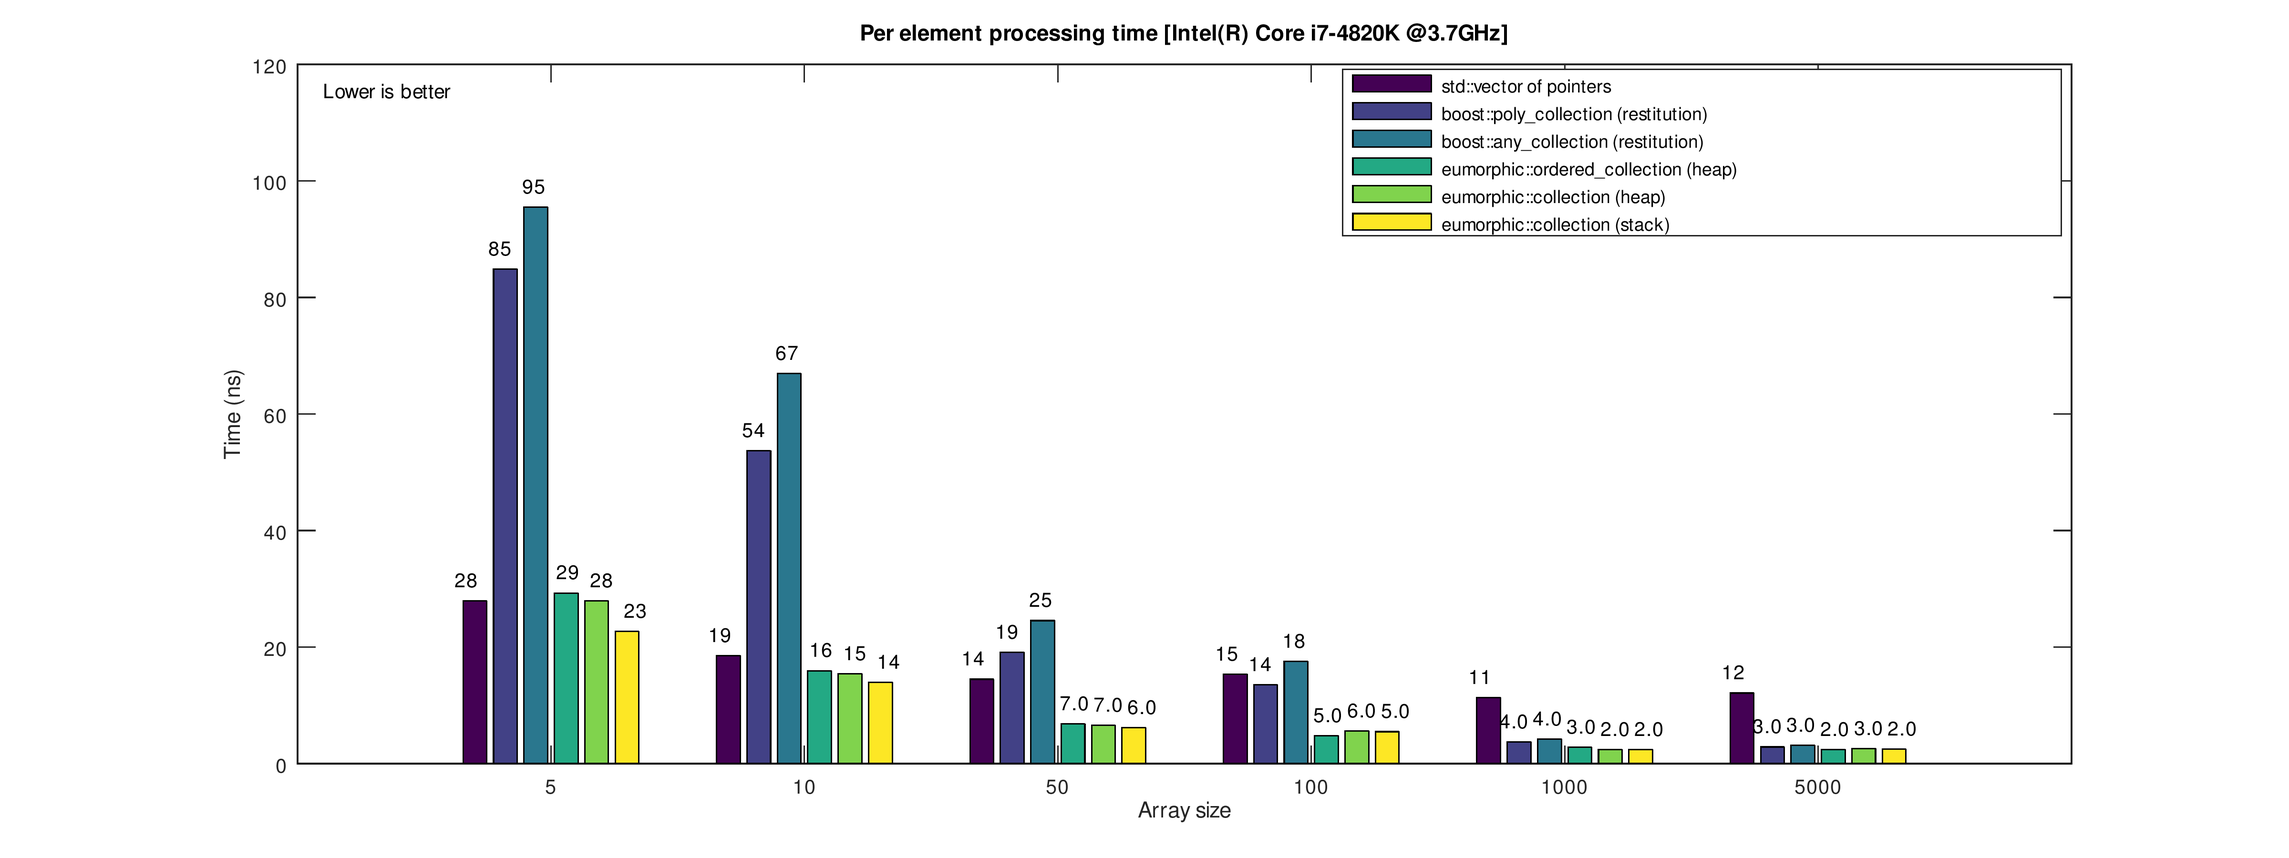
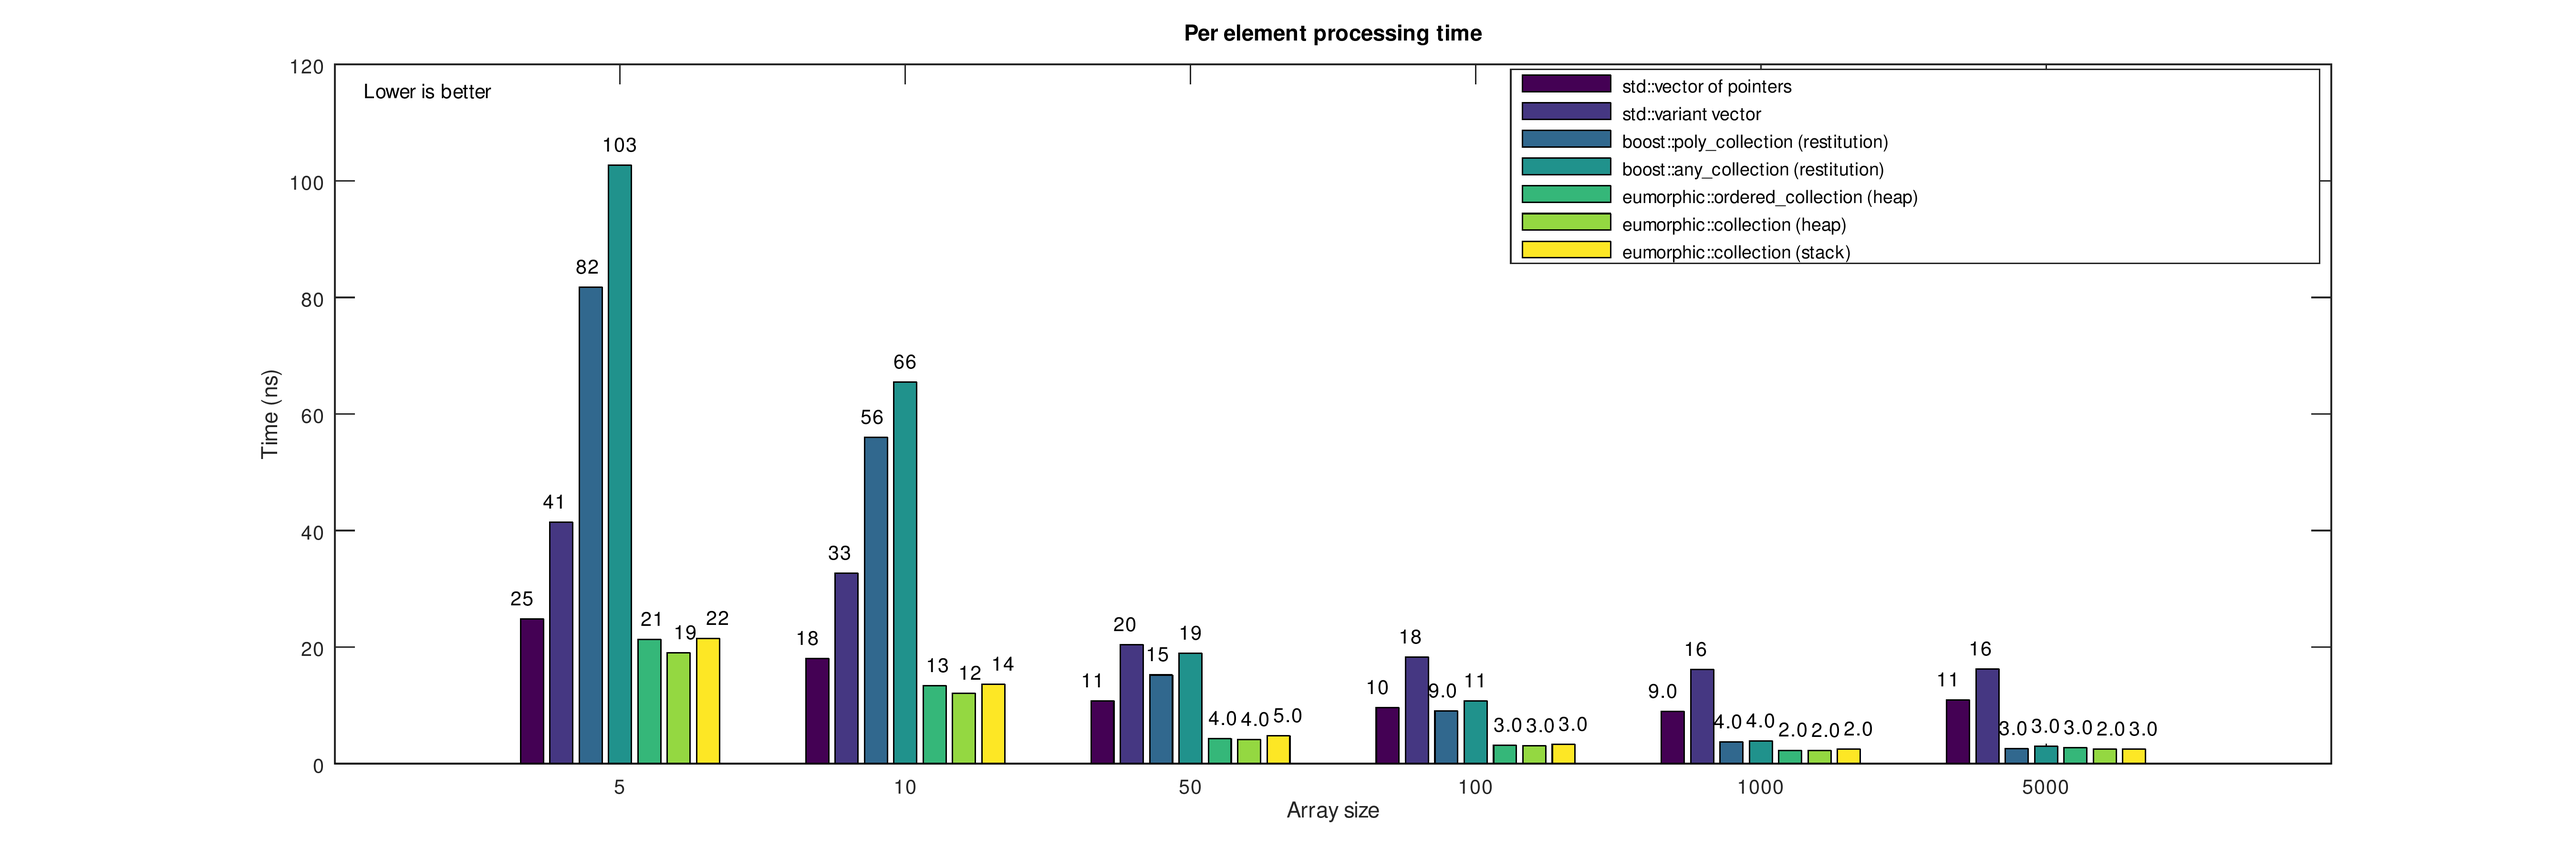
Added std::variant benchmarks

diff --git a/bench/main.cpp b/bench/main.cpp
@@ -9,6 +9,7 @@
 #include <exception>
 #include <iostream>
 #include <numeric>
+#include <variant>
 #include <memory>
 #include <chrono>
 #include <random>
@@ -18,7 +19,7 @@
 
 double d = 0;
 
-constexpr std::size_t test_size = 100; // This needs to be restricted because of the stack frame size for the stack container
+constexpr std::size_t test_size = 5000; // This needs to be restricted because of the stack frame size for the stack container
 constexpr std::size_t average_repetitions = 100;
 
 constexpr std::size_t stack_array_size(std::size_t x)
@@ -88,6 +89,9 @@ using any_collection = boost::any_collection<concept_> ;
 using base_collection	= boost::base_collection<A>;
 using vec_collection	= std::vector<std::unique_ptr<A>>;
 
+using var_t = std::variant<A, B, C, D, CA, CB>;
+using variant_collection = std::vector< var_t>;
+
 void do_not_optimize_out(any_collection& c)
 {
 	if (c.size() > 0)
@@ -102,6 +106,18 @@ void do_not_optimize_out(any_collection& c)
 	{
 		d = (int)c.size();
 	}
+}
+
+void process(variant_collection& collection)
+{
+	for (auto e : collection)
+	{
+		std::visit([](auto&& v)
+			{
+				v.run();
+			}, e);
+	}
+
 }
 
 void process(any_collection& collection)
@@ -185,11 +201,41 @@ void do_not_optimize_out(vec_collection& v)
 {
 	if (v.size() > 0)
 	{
-		d = v[v.size() - 1]->data;
+		for ( auto &e : v )
+		d += e->data;
 	}
 	else
 	{
 		d = (int)v.size();
+	}
+}
+template <class T>
+void insert_default_value_of(variant_collection& v)
+{
+	v.push_back(T{});
+}
+
+template <class T, class E, class R >
+void insert_rnd_value_of(variant_collection& v, E& gen, const R& rnd)
+{
+	v.push_back( T{ rnd(gen) });
+}
+
+void do_not_optimize_out( variant_collection& col )
+{
+	if (col.size() > 0)
+	{
+		for (auto e : col)
+		{
+			std::visit([](auto&& v)
+				{
+					d += v.data;
+				}, e);
+		}
+	}
+	else
+	{
+		d = (int)col.size();
 	}
 }
 
@@ -347,6 +393,7 @@ int main()
 	std::size_t insert_elem_count     = processing_elem_count;
 
 	std::vector<double>			vec_processing_timings, vec_insert_timings;
+	std::vector<double>			var_processing_timings, var_insert_timings;
 	std::vector<double>			eoc_processing_timings, eoc_insert_timings;
 	std::vector<double>			bc_processing_timings,  bc_insert_timings;
 	std::vector<double>			ec_processing_timings,  ec_insert_timings;
@@ -354,7 +401,7 @@ int main()
 	std::vector<double>			any_processing_timings, any_insert_timings;
 
 	std::default_random_engine		gen;
-	std::uniform_int_distribution<int>	rnd_test_type(0, 2*6 - 1);
+	std::uniform_int_distribution<int>	rnd_test_type(0, 2*7 - 1);
 
 	std::size_t samples = num_types * average_repetitions;
 	for (auto i = 0; i != samples; i++)
@@ -364,18 +411,20 @@ int main()
 		switch (rnd_test_type(gen))
 		{
 		case 0: vec_insert_timings.push_back(benchmark_insert  <vec_collection>(insert_elem_count)); break;
-		case 1: bc_insert_timings.push_back(benchmark_insert  <base_collection>(insert_elem_count)); break;
-		case 2: any_insert_timings.push_back(benchmark_insert  <any_collection>(insert_elem_count)); break;
-		case 3: eoc_insert_timings.push_back(benchmark_insert  <ordered_heap_collection>(insert_elem_count)); break;
-		case 4: ec_insert_timings.push_back(benchmark_insert  <heap_collection>(insert_elem_count)); break;
-		case 5: esc_insert_timings.push_back(benchmark_insert<stack_collection>(insert_elem_count)); break;
+		case 1: var_insert_timings.push_back(benchmark_insert  <variant_collection>(insert_elem_count)); break;
+		case 2: bc_insert_timings.push_back(benchmark_insert  <base_collection>(insert_elem_count)); break;
+		case 3: any_insert_timings.push_back(benchmark_insert  <any_collection>(insert_elem_count)); break;
+		case 4: eoc_insert_timings.push_back(benchmark_insert  <ordered_heap_collection>(insert_elem_count)); break;
+		case 5: ec_insert_timings.push_back(benchmark_insert  <heap_collection>(insert_elem_count)); break;
+		case 6: esc_insert_timings.push_back(benchmark_insert<stack_collection>(insert_elem_count)); break;
 
-		case 6: vec_processing_timings.push_back(benchmark_processing  <vec_collection>( processing_elem_count)); break;
-		case 7: bc_processing_timings.push_back(benchmark_processing  <base_collection>( processing_elem_count)); break;
-		case 8: any_processing_timings.push_back(benchmark_processing  <any_collection>(processing_elem_count)); break;
-		case 9: eoc_processing_timings.push_back(benchmark_processing  <ordered_heap_collection>(processing_elem_count)); break;
-		case 10: ec_processing_timings.push_back(benchmark_processing  <heap_collection>( processing_elem_count)); break;
-		case 11: esc_processing_timings.push_back(benchmark_processing<stack_collection>( processing_elem_count)); break;
+		case 7: vec_processing_timings.push_back(benchmark_processing  <vec_collection>( processing_elem_count)); break;
+		case 8: var_processing_timings.push_back(benchmark_processing  <variant_collection>(processing_elem_count)); break;
+		case 9: bc_processing_timings.push_back(benchmark_processing  <base_collection>( processing_elem_count)); break;
+		case 10: any_processing_timings.push_back(benchmark_processing  <any_collection>(processing_elem_count)); break;
+		case 11: eoc_processing_timings.push_back(benchmark_processing  <ordered_heap_collection>(processing_elem_count)); break;
+		case 12: ec_processing_timings.push_back(benchmark_processing  <heap_collection>( processing_elem_count)); break;
+		case 13: esc_processing_timings.push_back(benchmark_processing<stack_collection>( processing_elem_count)); break;
 
 
 		default: throw std::runtime_error("Unhandled test type id."); break;
@@ -390,18 +439,21 @@ int main()
 
 	try
 	{
-		display_results("Vector of pointers insertion            ", vec_insert_timings);
-		display_results("boost::base_collection insertion time   ", bc_insert_timings);
-		display_results("boost::any_collection insertion time    ", any_insert_timings);
-		display_results("eumorphic::ordered_ collection ins. time", eoc_insert_timings);
-		display_results("eumorphic::collection insertion time    ", ec_insert_timings);
-		display_results("eumorphic::collection (stack) ins. time ", esc_insert_timings);
-		display_results("Vector of pointers processing time      ", vec_processing_timings);
-		display_results("boost::base_collection processing time  ", bc_processing_timings);
-		display_results("boost::any_collection processing time   ", any_processing_timings);
-		display_results("eumorphic::ordered_collection pr. time  ", eoc_processing_timings); 
-		display_results("eumorphic::collection processing time   ", ec_processing_timings);
-		display_results("eumorphic::collection (stack) pr. time  ", esc_processing_timings);
+		display_results("Vector of pointers insertion        ", vec_insert_timings);
+		display_results("Variant vector insertion            ", var_insert_timings);
+		display_results("boost::base_collection insertion    ", bc_insert_timings);
+		display_results("boost::any_collection insertion     ", any_insert_timings);
+		display_results("eumorphic::ordered_ collection ins. ", eoc_insert_timings);
+		display_results("eumorphic::collection insertion     ", ec_insert_timings);
+		display_results("eumorphic::collection (stack) ins.  ", esc_insert_timings);
+
+		display_results("Vector of pointers processing       ", vec_processing_timings);
+		display_results("Variant vector processing           ", var_processing_timings);
+		display_results("boost::base_collection processing   ", bc_processing_timings);
+		display_results("boost::any_collection processing    ", any_processing_timings);
+		display_results("eumorphic::ordered_collection pr.   ", eoc_processing_timings); 
+		display_results("eumorphic::collection processing    ", ec_processing_timings);
+		display_results("eumorphic::collection (stack) pr.   ", esc_processing_timings);
 	}
 	catch (std::exception& e)
 	{

diff --git a/bench/generate_benchmark_plots.m b/bench/generate_benchmark_plots.m
@@ -13,8 +13,8 @@ for j = 1 : length( files )
     container_size = dlmread( filename, ',',[0,1,0,1]);
     a=dlmread( filename, ',', 2, 1);
     
-    insertions = a(1:6,1)';
-    processing = a(7:end,1)';
+    insertions = a(1:7,1)';
+    processing = a(8:end,1)';
     
     cs=[cs; container_size];
     ins=[ins;insertions];
@@ -57,6 +57,7 @@ for k = 1:length(hb)
 end
 
 legend( 'std::vector of pointers', ...
+    'std::variant vector',...
     'boost::poly\_collection (restitution)', ...
     'boost::any\_collection (restitution)', ...
     'eumorphic::ordered\_collection (heap)', ...
@@ -67,7 +68,7 @@ set(gcf, 'Position', [50, 50, 1270, 547 ])
 title ( [ 'Per element insertion time']);
 text( 0.1, ymax*0.98, 'Lower is better','VerticalAlignment','Top' );
 
-set(gcf,'PaperPosition', [0.25, 2.5, 16, 6] )
+set(gcf,'PaperPosition', [0.25, 2.5, 18, 6] )
 
 drawnow
 
@@ -109,6 +110,7 @@ for k = 1:length(hb)
 end
 
 legend( 'std::vector of pointers', ...
+    'std::variant vector',...
     'boost::poly\_collection (restitution)', ...
     'boost::any\_collection (restitution)', ...
     'eumorphic::ordered\_collection (heap)', ...
@@ -120,7 +122,7 @@ title ( [ 'Per element processing time']);
 text( 0.1, ymax*0.98, 'Lower is better','VerticalAlignment','Top' );
 
 
-set(gcf,'PaperPosition', [0.25, 2.5, 16, 6] )
+set(gcf,'PaperPosition', [0.25, 2.5, 18, 6] )
 
 print( [ 'hetero_access_benchmark.png' ],'-r300','-dpng')
 print( [ 'hetero_access_benchmark.pdf' ],'-dpdf')
